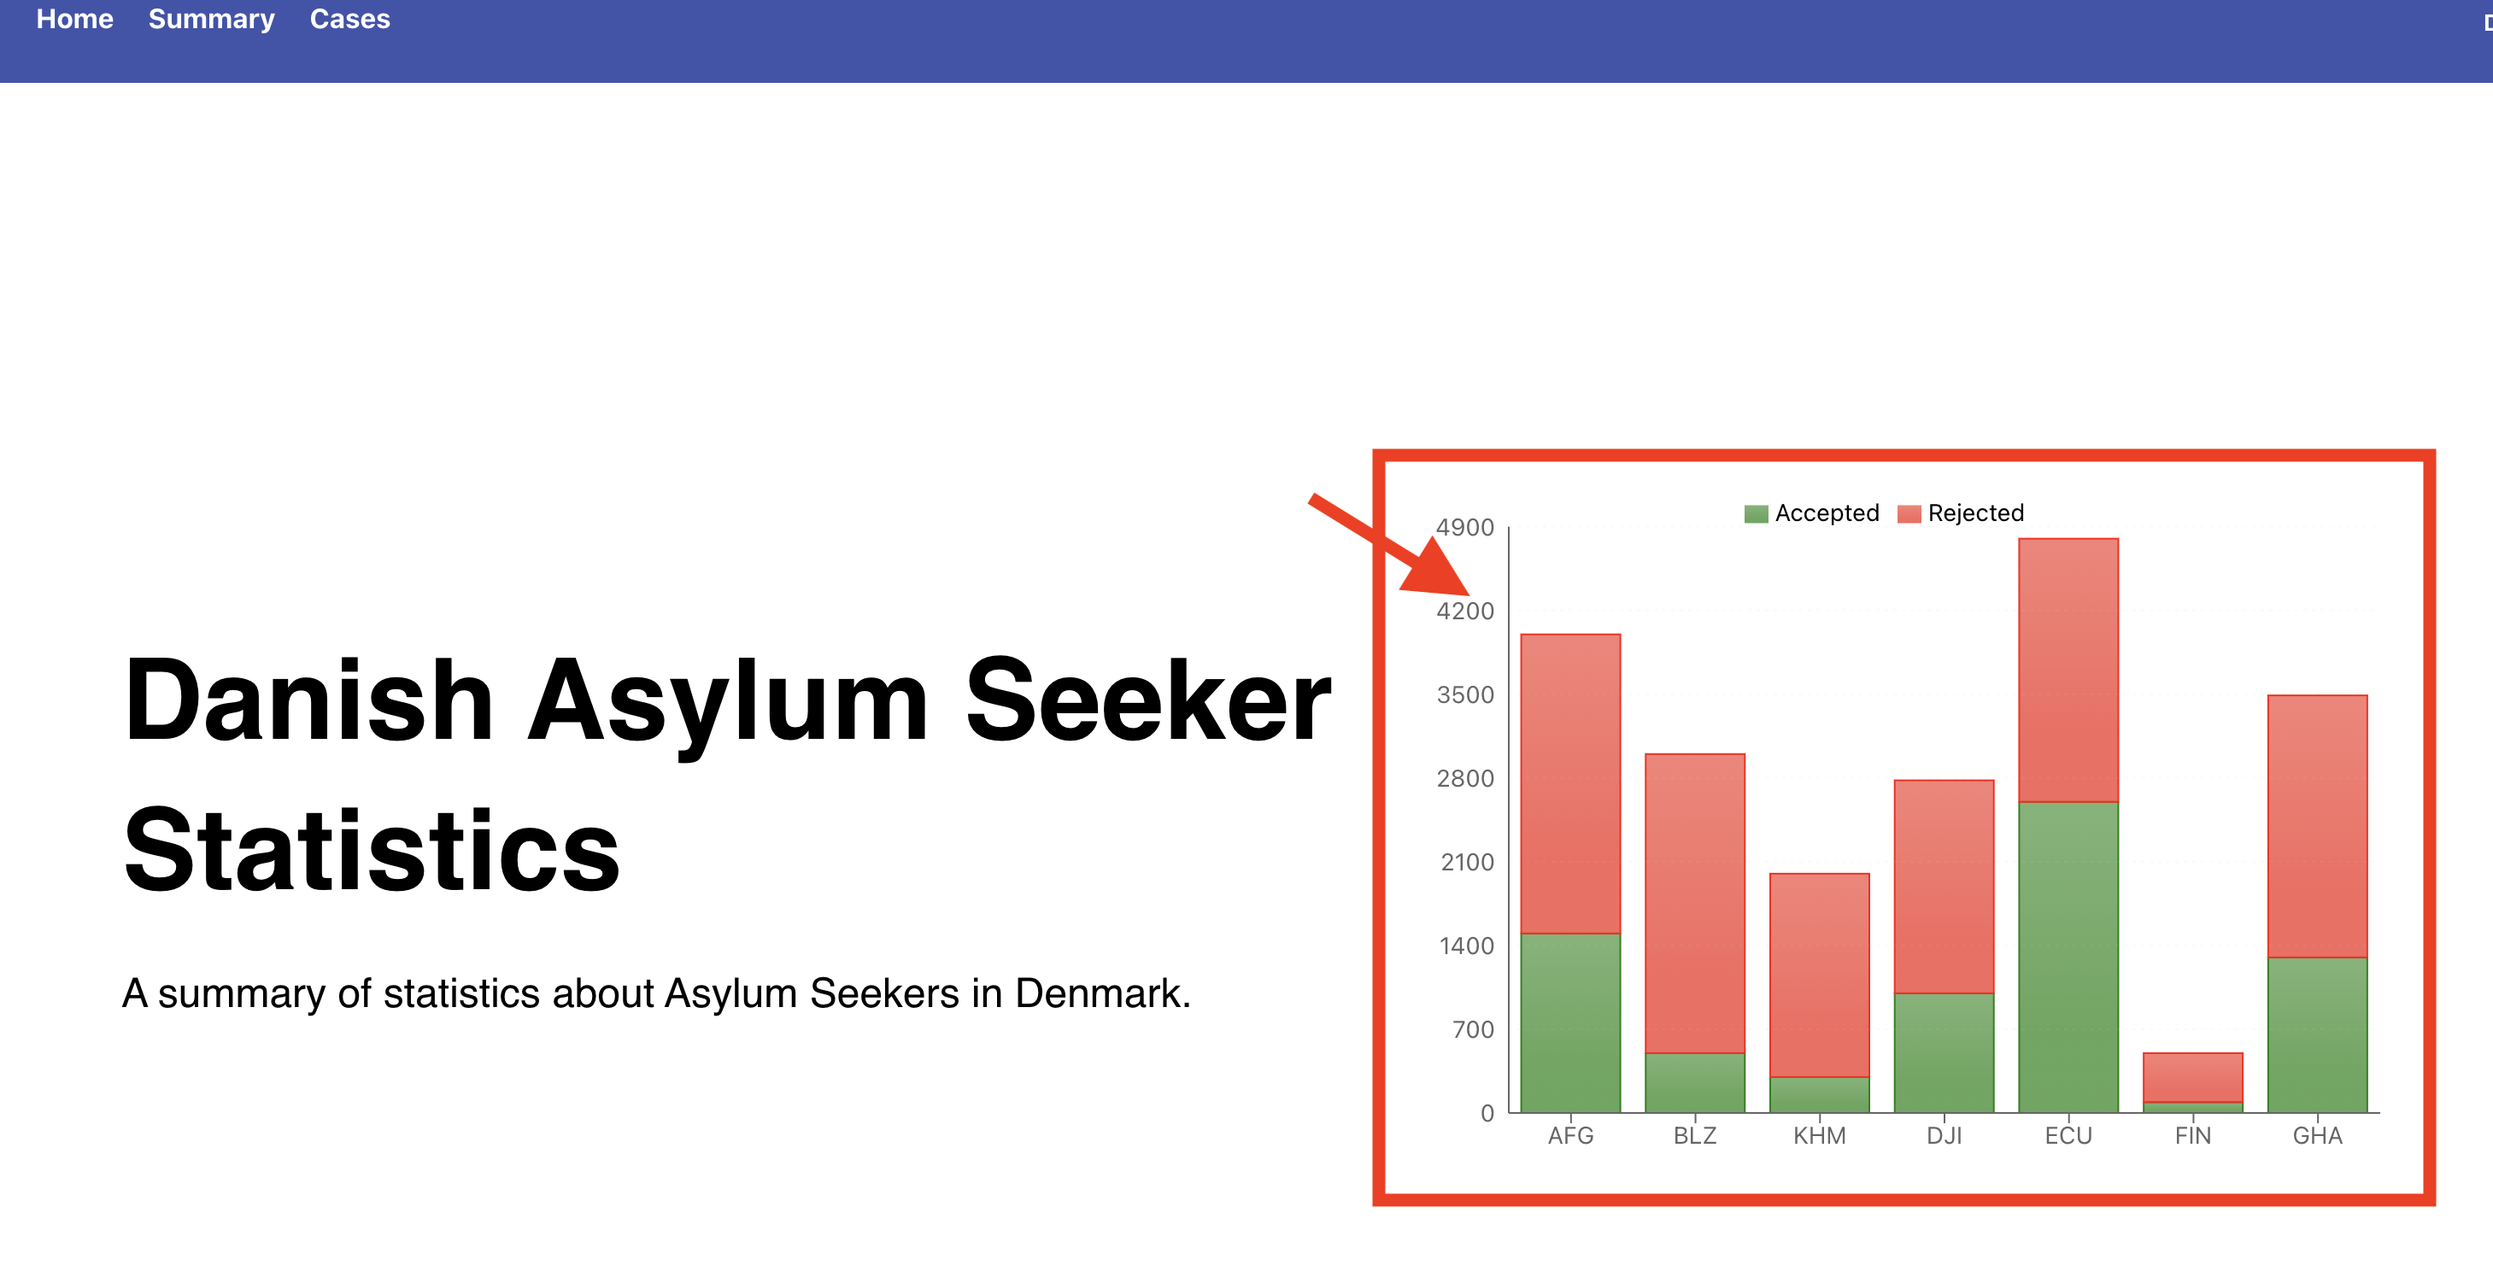
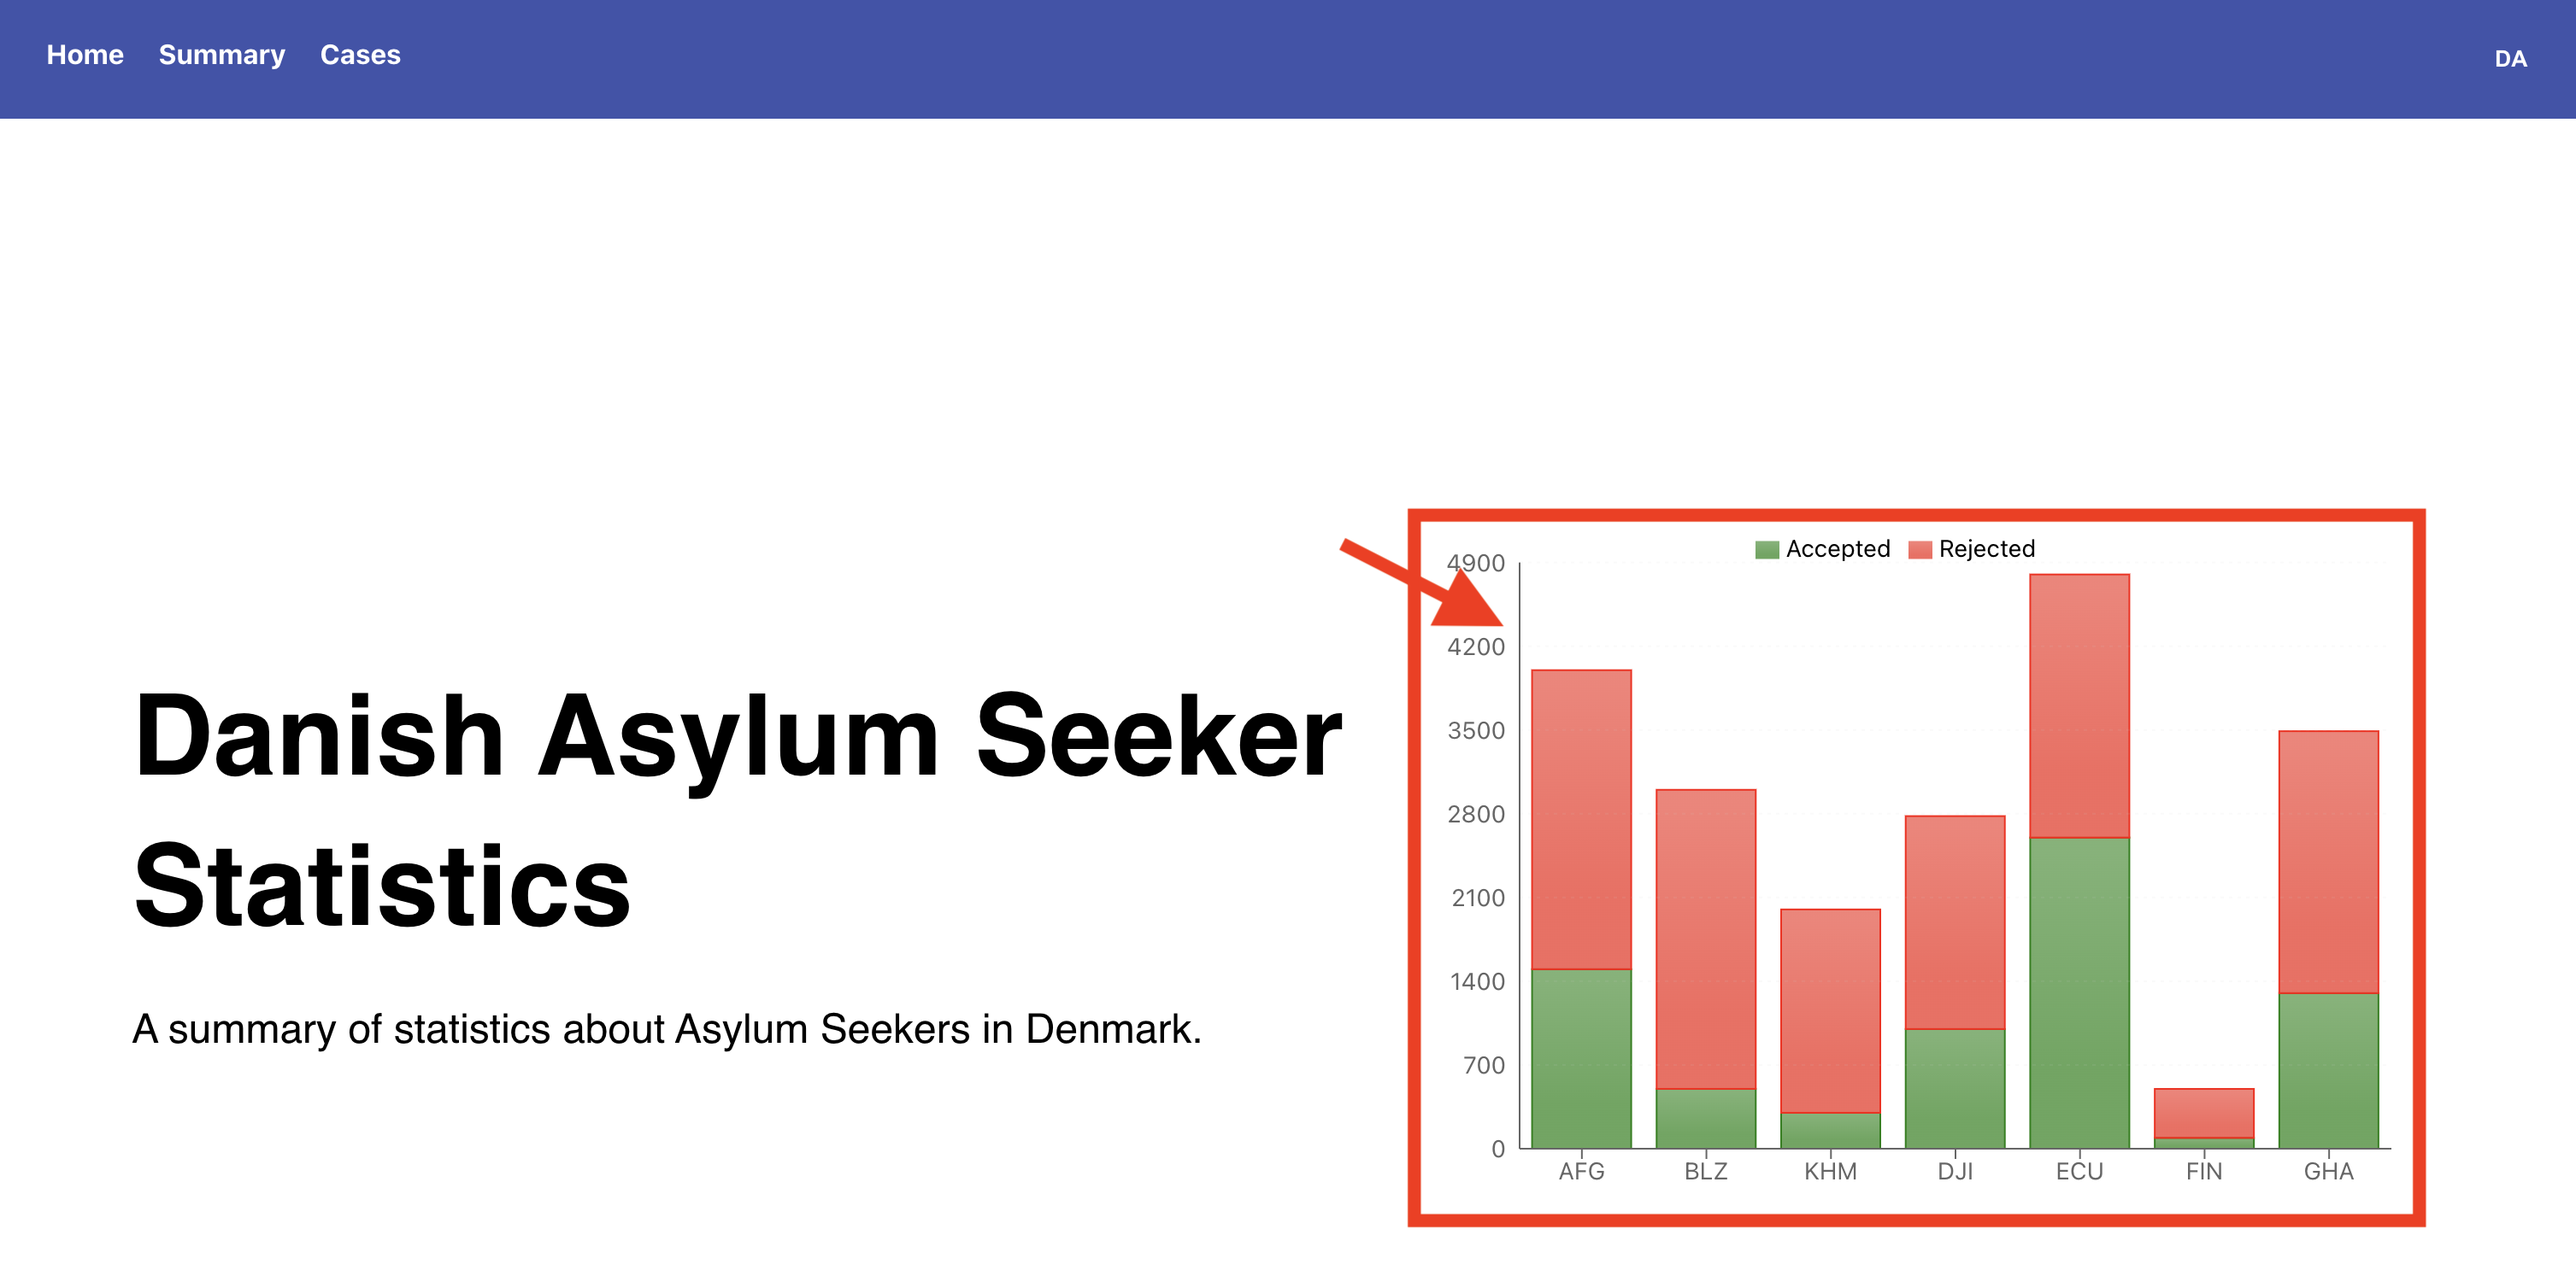
Updated images

diff --git a/src/pages/Home/components/GuideBlock.tsx b/src/pages/Home/components/GuideBlock.tsx
@@ -3,6 +3,7 @@ import { StyledDiv } from "../../../components/common/StyledDiv";
 import { StyledText } from "../../../components/common/StyledText";
 import casesPic from "./cases.png";
 import chartPic from "./caseSum.png";
+import navPic from "./nav.png";
 import sumPic from "./sum.png";
 import { useTranslation } from "react-i18next";
 
@@ -13,9 +14,10 @@ interface GuideBlockProps {
 
 export const GuideBlock = ({ title, text }: GuideBlockProps) => {
   const { t } = useTranslation();
-  const t1 = t("homePage.images.homeChart");
-  const t2 = t("homePage.images.summary");
-  const t3 = t("homePage.images.cases");
+  const t1 = t("homePage.images.nav")
+  const t2 = t("homePage.images.homeChart");
+  const t3 = t("homePage.images.summary");
+  const t4 = t("homePage.images.cases");
 
   return (
     <StyledDiv
@@ -33,7 +35,7 @@ export const GuideBlock = ({ title, text }: GuideBlockProps) => {
         >
             <StyledDiv margin="10px">
               <figure>
-                <img src={chartPic} alt="hjhjh" width="800px" height="500px"
+                <img src={navPic} alt="hjhjh" width="900px" height="500px"
                 style={{
                   boxShadow: "0px 5px 15px rgba(0, 0, 0, 0.35)",
                   borderRadius: "8px",
@@ -44,7 +46,7 @@ export const GuideBlock = ({ title, text }: GuideBlockProps) => {
             </StyledDiv>
             <StyledDiv margin="10px">
               <figure>
-                <img src={sumPic} alt="hjhjh" width="800px" height="500px"
+                <img src={chartPic} alt="hjhjh" width="900px" height="500px"
                 style={{
                   boxShadow: "0px 5px 15px rgba(0, 0, 0, 0.35)",
                   borderRadius: "8px",
@@ -55,13 +57,24 @@ export const GuideBlock = ({ title, text }: GuideBlockProps) => {
             </StyledDiv>
             <StyledDiv margin="10px">
               <figure>
-                <img src={casesPic} alt="hjhjh" width="800px" height="500px"
+                <img src={sumPic} alt="hjhjh" width="900px" height="500px"
                 style={{
                   boxShadow: "0px 5px 15px rgba(0, 0, 0, 0.35)",
                   borderRadius: "8px",
                 }}>
                 </img>
                 <figcaption style={{ fontWeight: "bold", textAlign: "center" }}>{t3}</figcaption>
+              </figure>
+            </StyledDiv>
+            <StyledDiv margin="10px">
+              <figure>
+                <img src={casesPic} alt="hjhjh" width="900px" height="500px"
+                style={{
+                  boxShadow: "0px 5px 15px rgba(0, 0, 0, 0.35)",
+                  borderRadius: "8px",
+                }}>
+                </img>
+                <figcaption style={{ fontWeight: "bold", textAlign: "center" }}>{t4}</figcaption>
               </figure>
             </StyledDiv>
         </StyledDiv>
